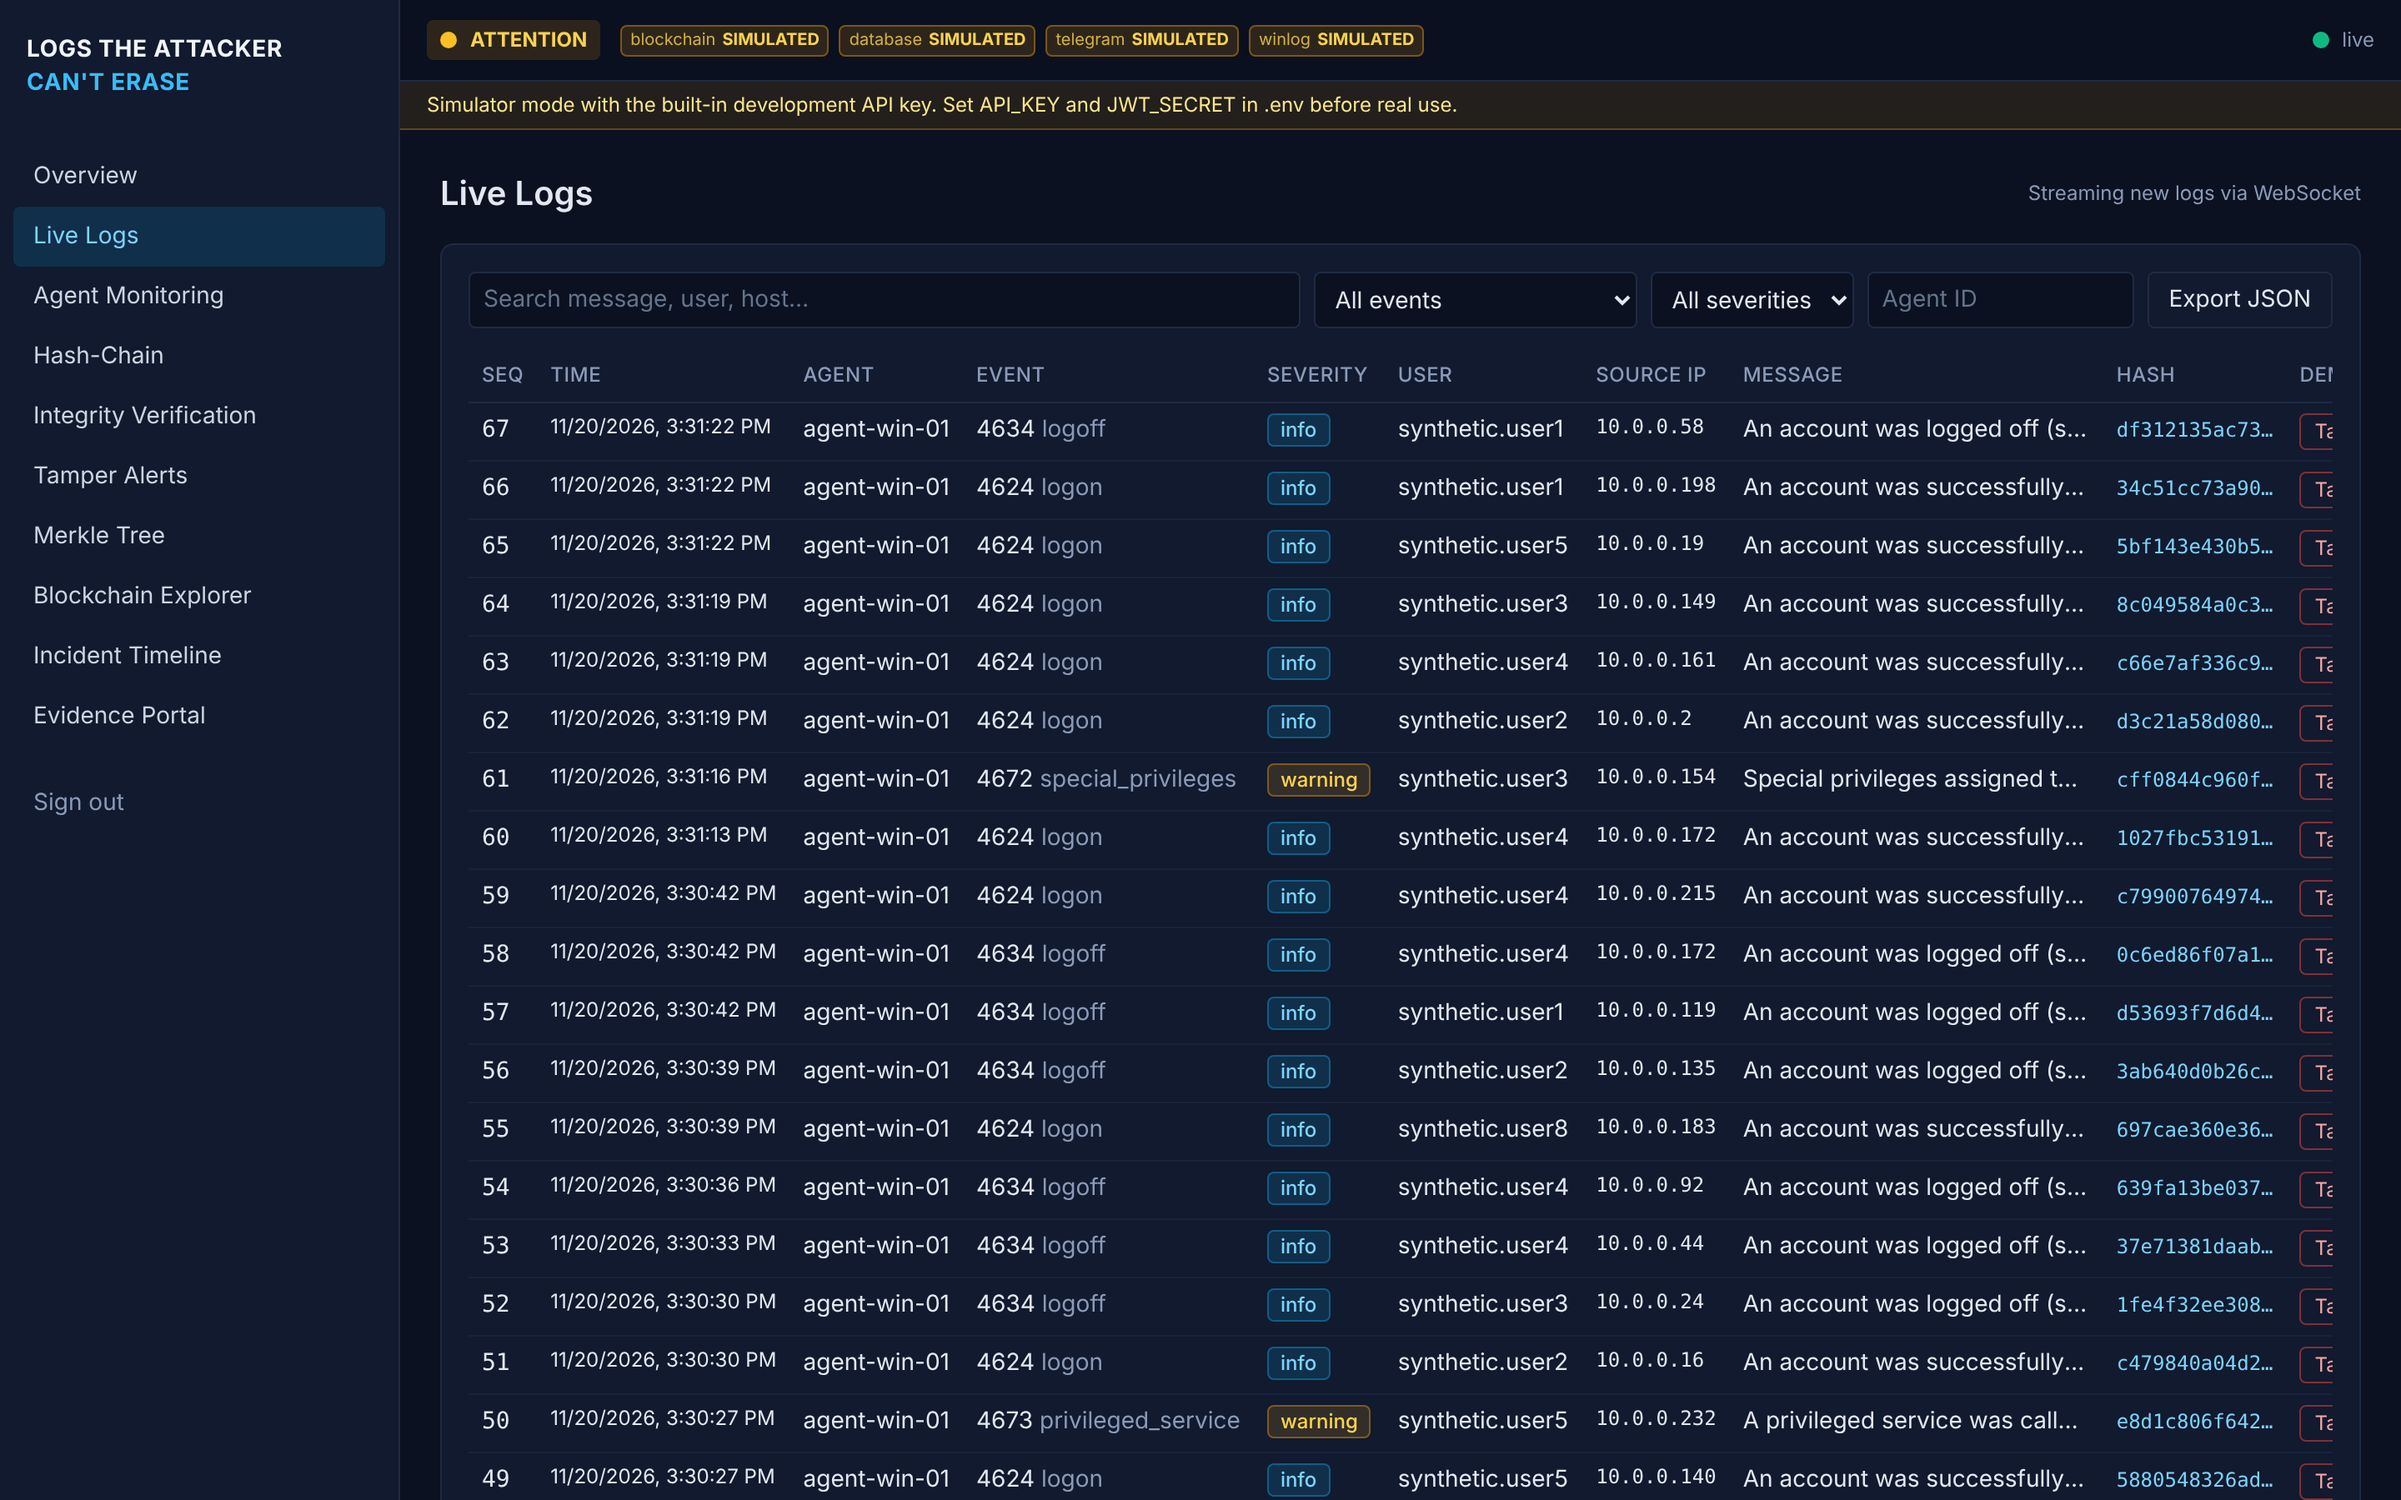
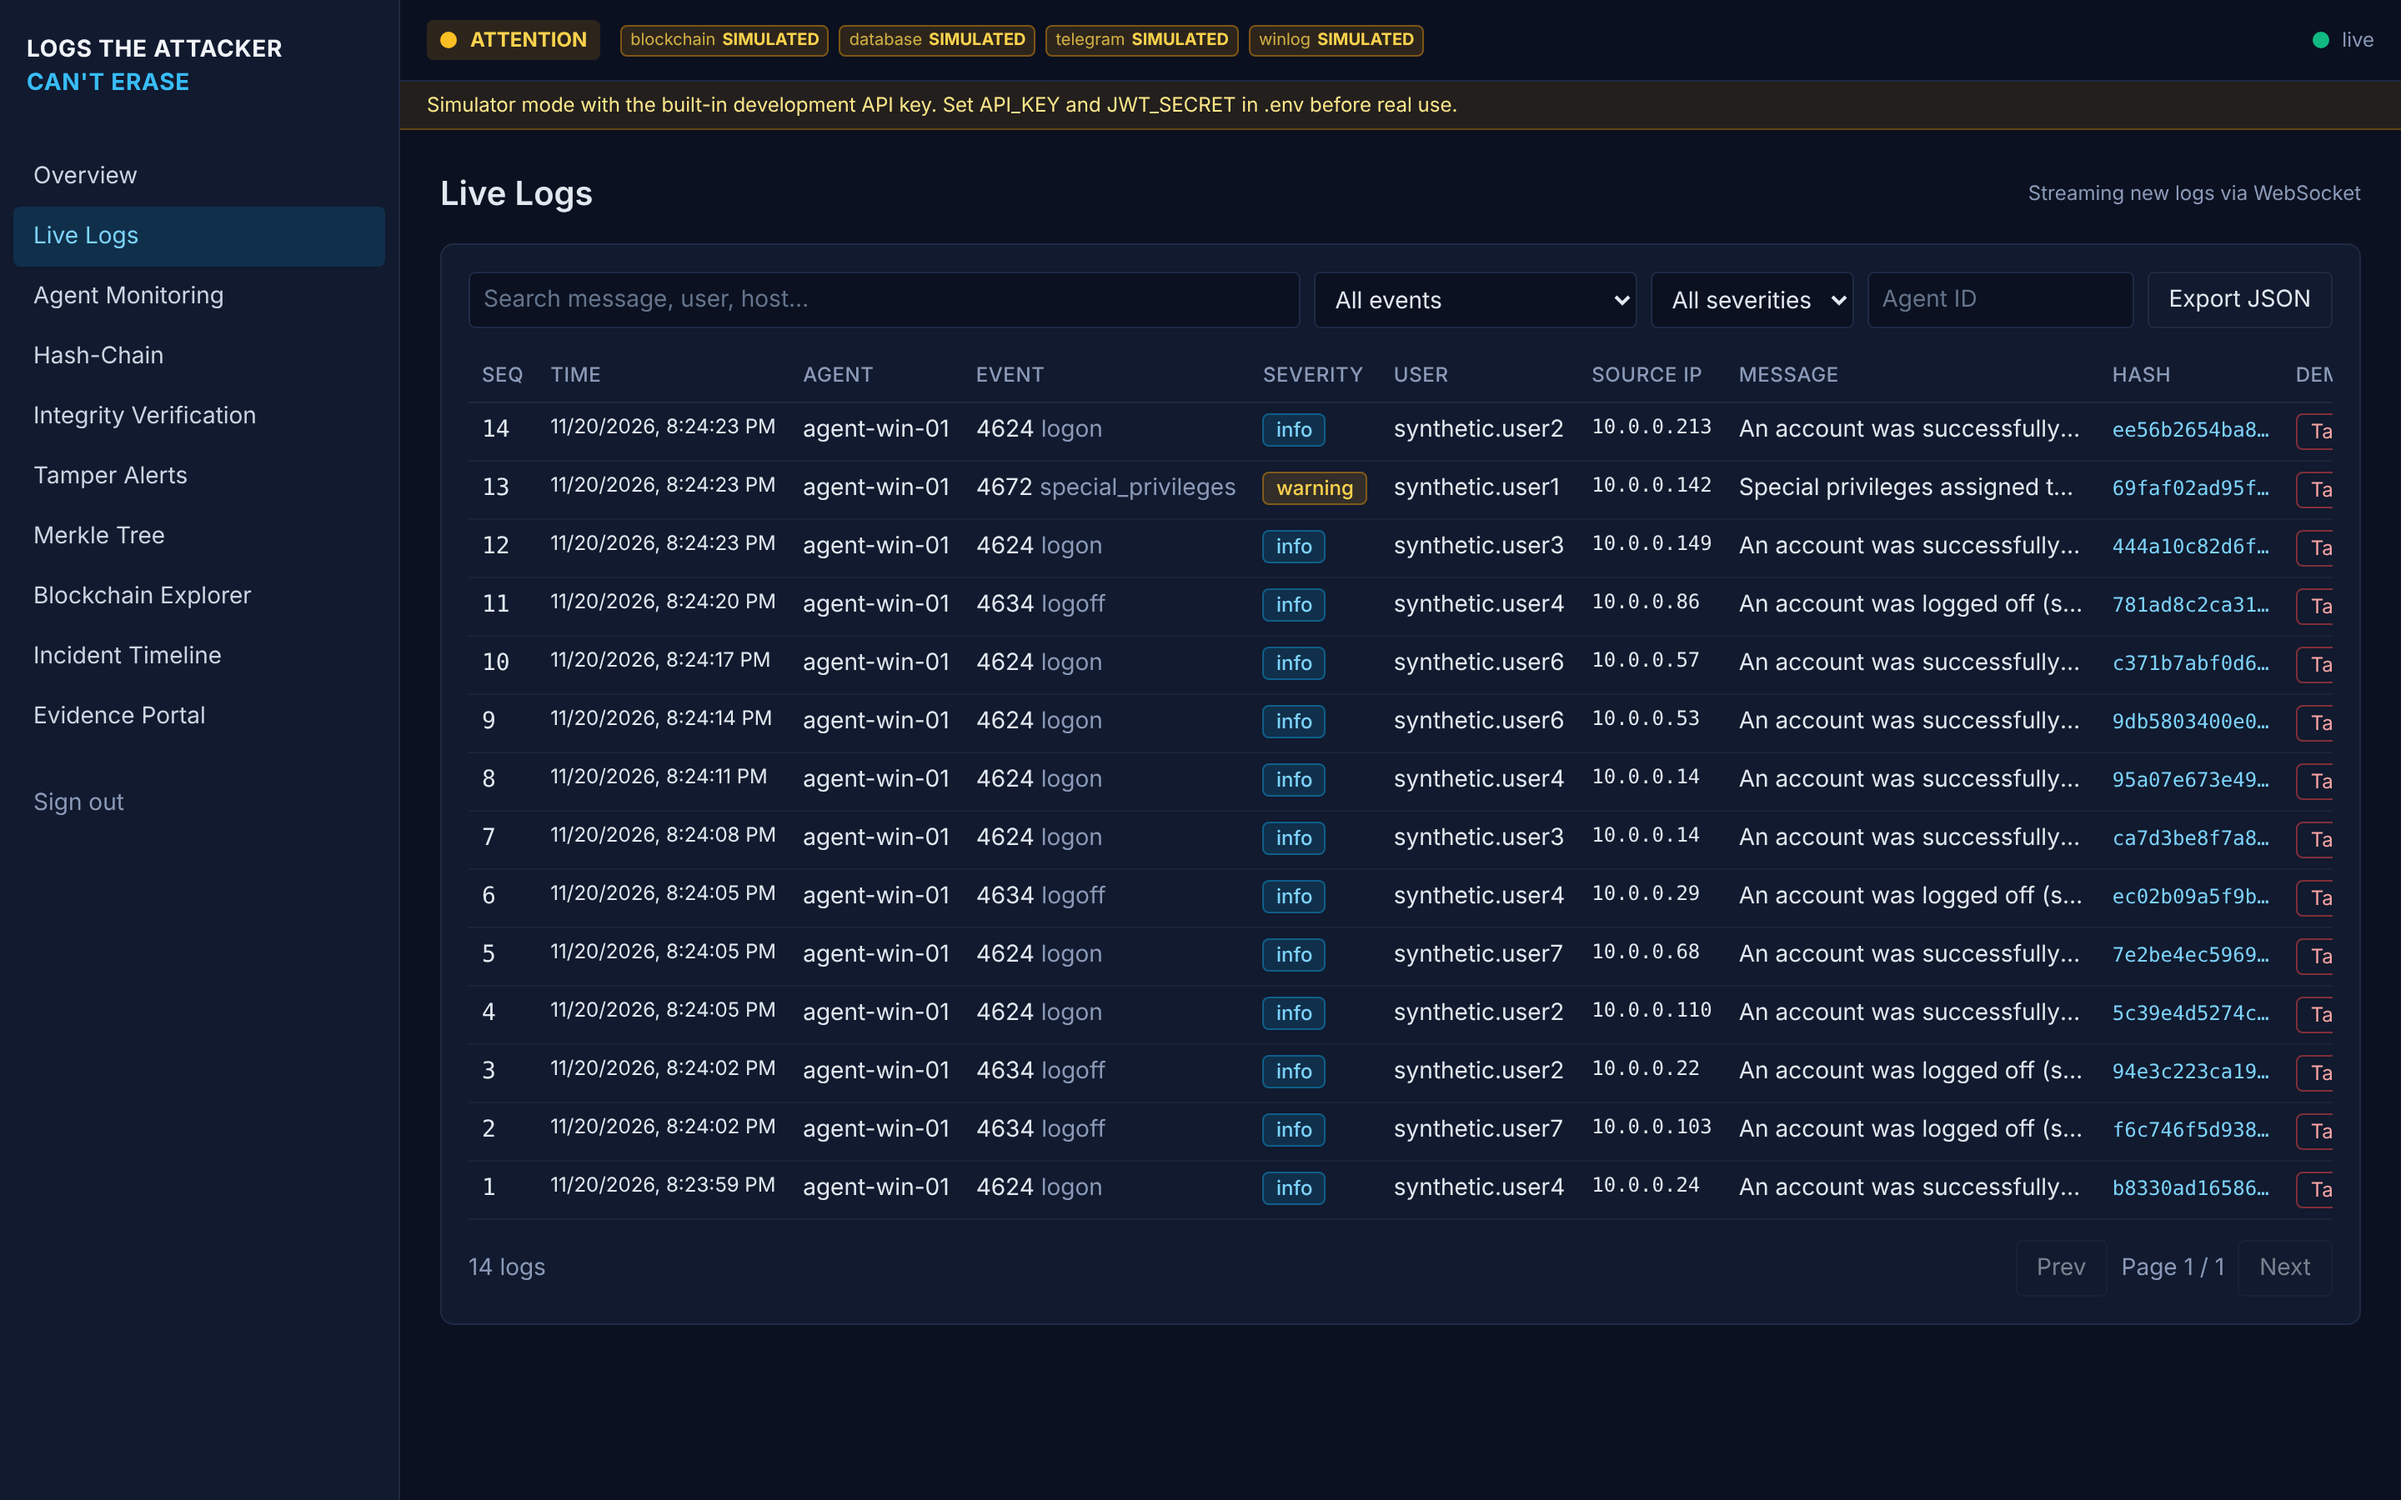
docs(quai step12): clean-clone verification, regenerated scenario screenshots, project state complete
Claude-Session: https://claude.ai/code/session_015RNb6FucVTb6q4B85cYiCy

diff --git a/PROJECT_STATE.md b/PROJECT_STATE.md
@@ -12,11 +12,11 @@ Tamper-evident security logging: SHA-256 hash chains, Merkle trees, and blockcha
 
 | Field | Value |
 |---|---|
-| Current step | Quai rebuild — Step 11 (End-to-end tests) complete; Step 8 REAL mode still waits for keys + "approve" |
-| Next step | Step 12 — Docs and launch |
+| Current step | Quai rebuild — all 12 steps complete in simulator mode; Step 8 REAL mode waits for operator keys + "approve" |
+| Next step | Operator: Quai keys in .env -> dry run -> "approve" -> deploy; run start.ps1 on Windows |
 | Python | 3.12 (venv at `.venv`) · Node.js LTS (quai-service, Hardhat, frontend) |
 | Default mode | `MODE=simulator` (every integration falls back to a simulator when its key is empty) |
-| Build host | Linux cloud container (target platform: Windows 11 / PowerShell) |
+| Build host | Linux cloud container (target platform: Windows 11 / PowerShell). start.ps1 not executed here (no PowerShell); start.sh (same steps) verified from a clean clone. |
 | History | `main` before this rebuild = Polygon Amoy edition (all 12 steps PASS). This edition replaces Polygon/web3.py with Quai via a Node.js `quais` service. |
 
 ## Phase checklist (Quai rebuild — every step is re-verified with a fresh report)
@@ -32,7 +32,7 @@ Tamper-evident security logging: SHA-256 hash chains, Merkle trees, and blockcha
 - [x] **Step 9** Evidence reports (JSON bundle + PDF certificate with disclaimer, Orchard QuaiScan links)
 - [x] **Step 10** Frontend (SOC dashboard, "Quai Orchard (REAL)" / "SIMULATED" badges)
 - [x] **Step 11** End-to-end tests (6 scenarios)
-- [ ] **Step 12** Docs and launch (start.ps1 launches backend, agent, quai-service, frontend; deployment evidence table)
+- [x] **Step 12** Docs and launch (start.ps1 launches backend, agent, quai-service, frontend; deployment evidence table)
 
 ## Git branches
 
@@ -537,3 +537,4 @@ quais-only signing, offline metadata CID instead of IPFS, RPC pathing, Prime vs 
 | 2026-11-20 | Q9 | Evidence bundle/PDF: Quai network name, Orchard QuaiScan tx + contract links, explorer_status (source not verified, no IPFS), Quai on-chain check instructions; PolygonScan wording removed. Re-verified live (downloads, fields, standalone offline verify VALID/INVALID, PDF disclaimer). |
 | 2026-11-20 | Q10 | Dashboard: Quai network names, Orchard QuaiScan tx/contract links (`src/lib/quai.ts`), header badge "Quai Orchard (REAL)" / "SIMULATED", evidence explorer link; 0 Polygon references. Bug fixed: a simulator-anchored batch was linked to QuaiScan after switching to REAL mode (now linked only when the anchor itself was REAL). Build/lint/tsc clean, 10 pages 0 console errors, tamper -> red, API error state, mock mode. CLAUDE.md added. |
 | 2026-11-20 | Q11 | E2E: 6 scenarios PASS + scenario 5 via the quai-service path. Totals: pytest 111 (0 skipped, with Postgres), Hardhat 9, quai-service unit 7 + live read-only 4 = 131. Python coverage 91%. |
+| 2026-11-20 | Q12 | start.ps1/start.sh launch quai-service (read-only unless -AllowBroadcast/--allow-broadcast) + backend + agent + dashboard; README rewritten for Quai keys; ARCHITECTURE (Quai diagram, trust boundaries), API (+quai-service), DEMO_SCRIPT, DEPLOYMENT evidence table (not deployed); OpenAPI re-exported. Clean clone: 4 services healthy in 41 s; 6 scenarios PASS via dashboard; scenario screenshots regenerated. |
